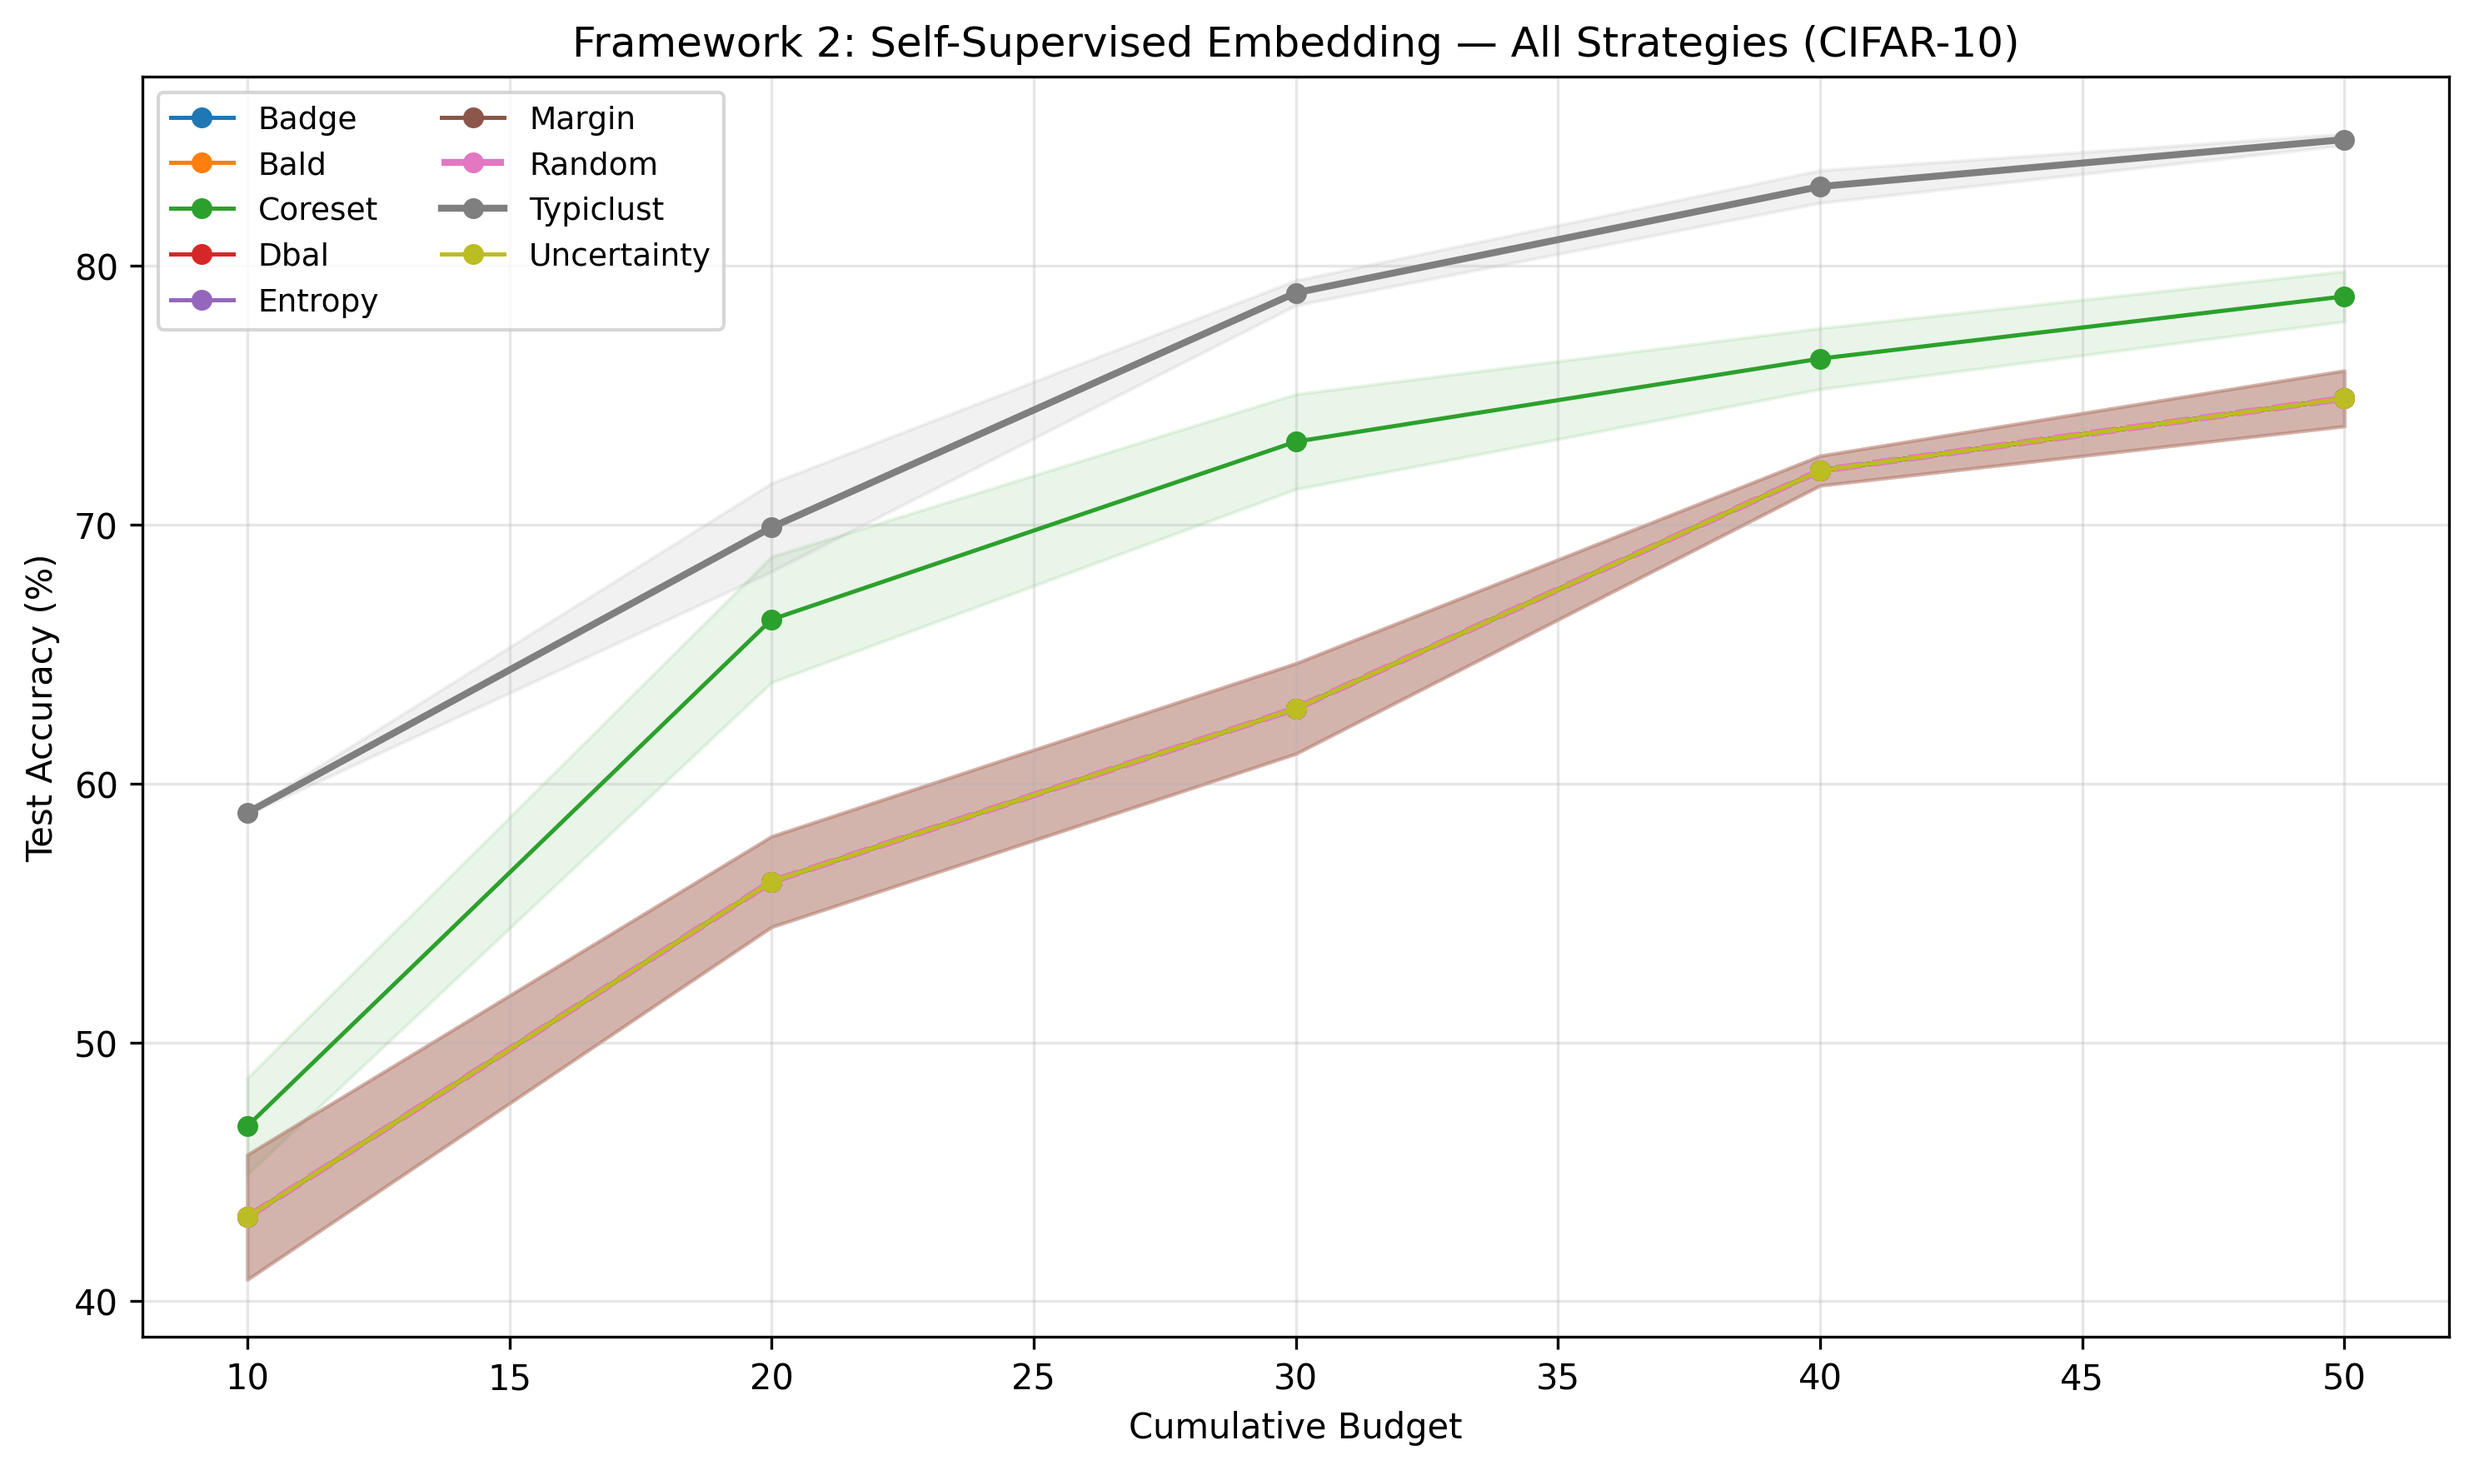
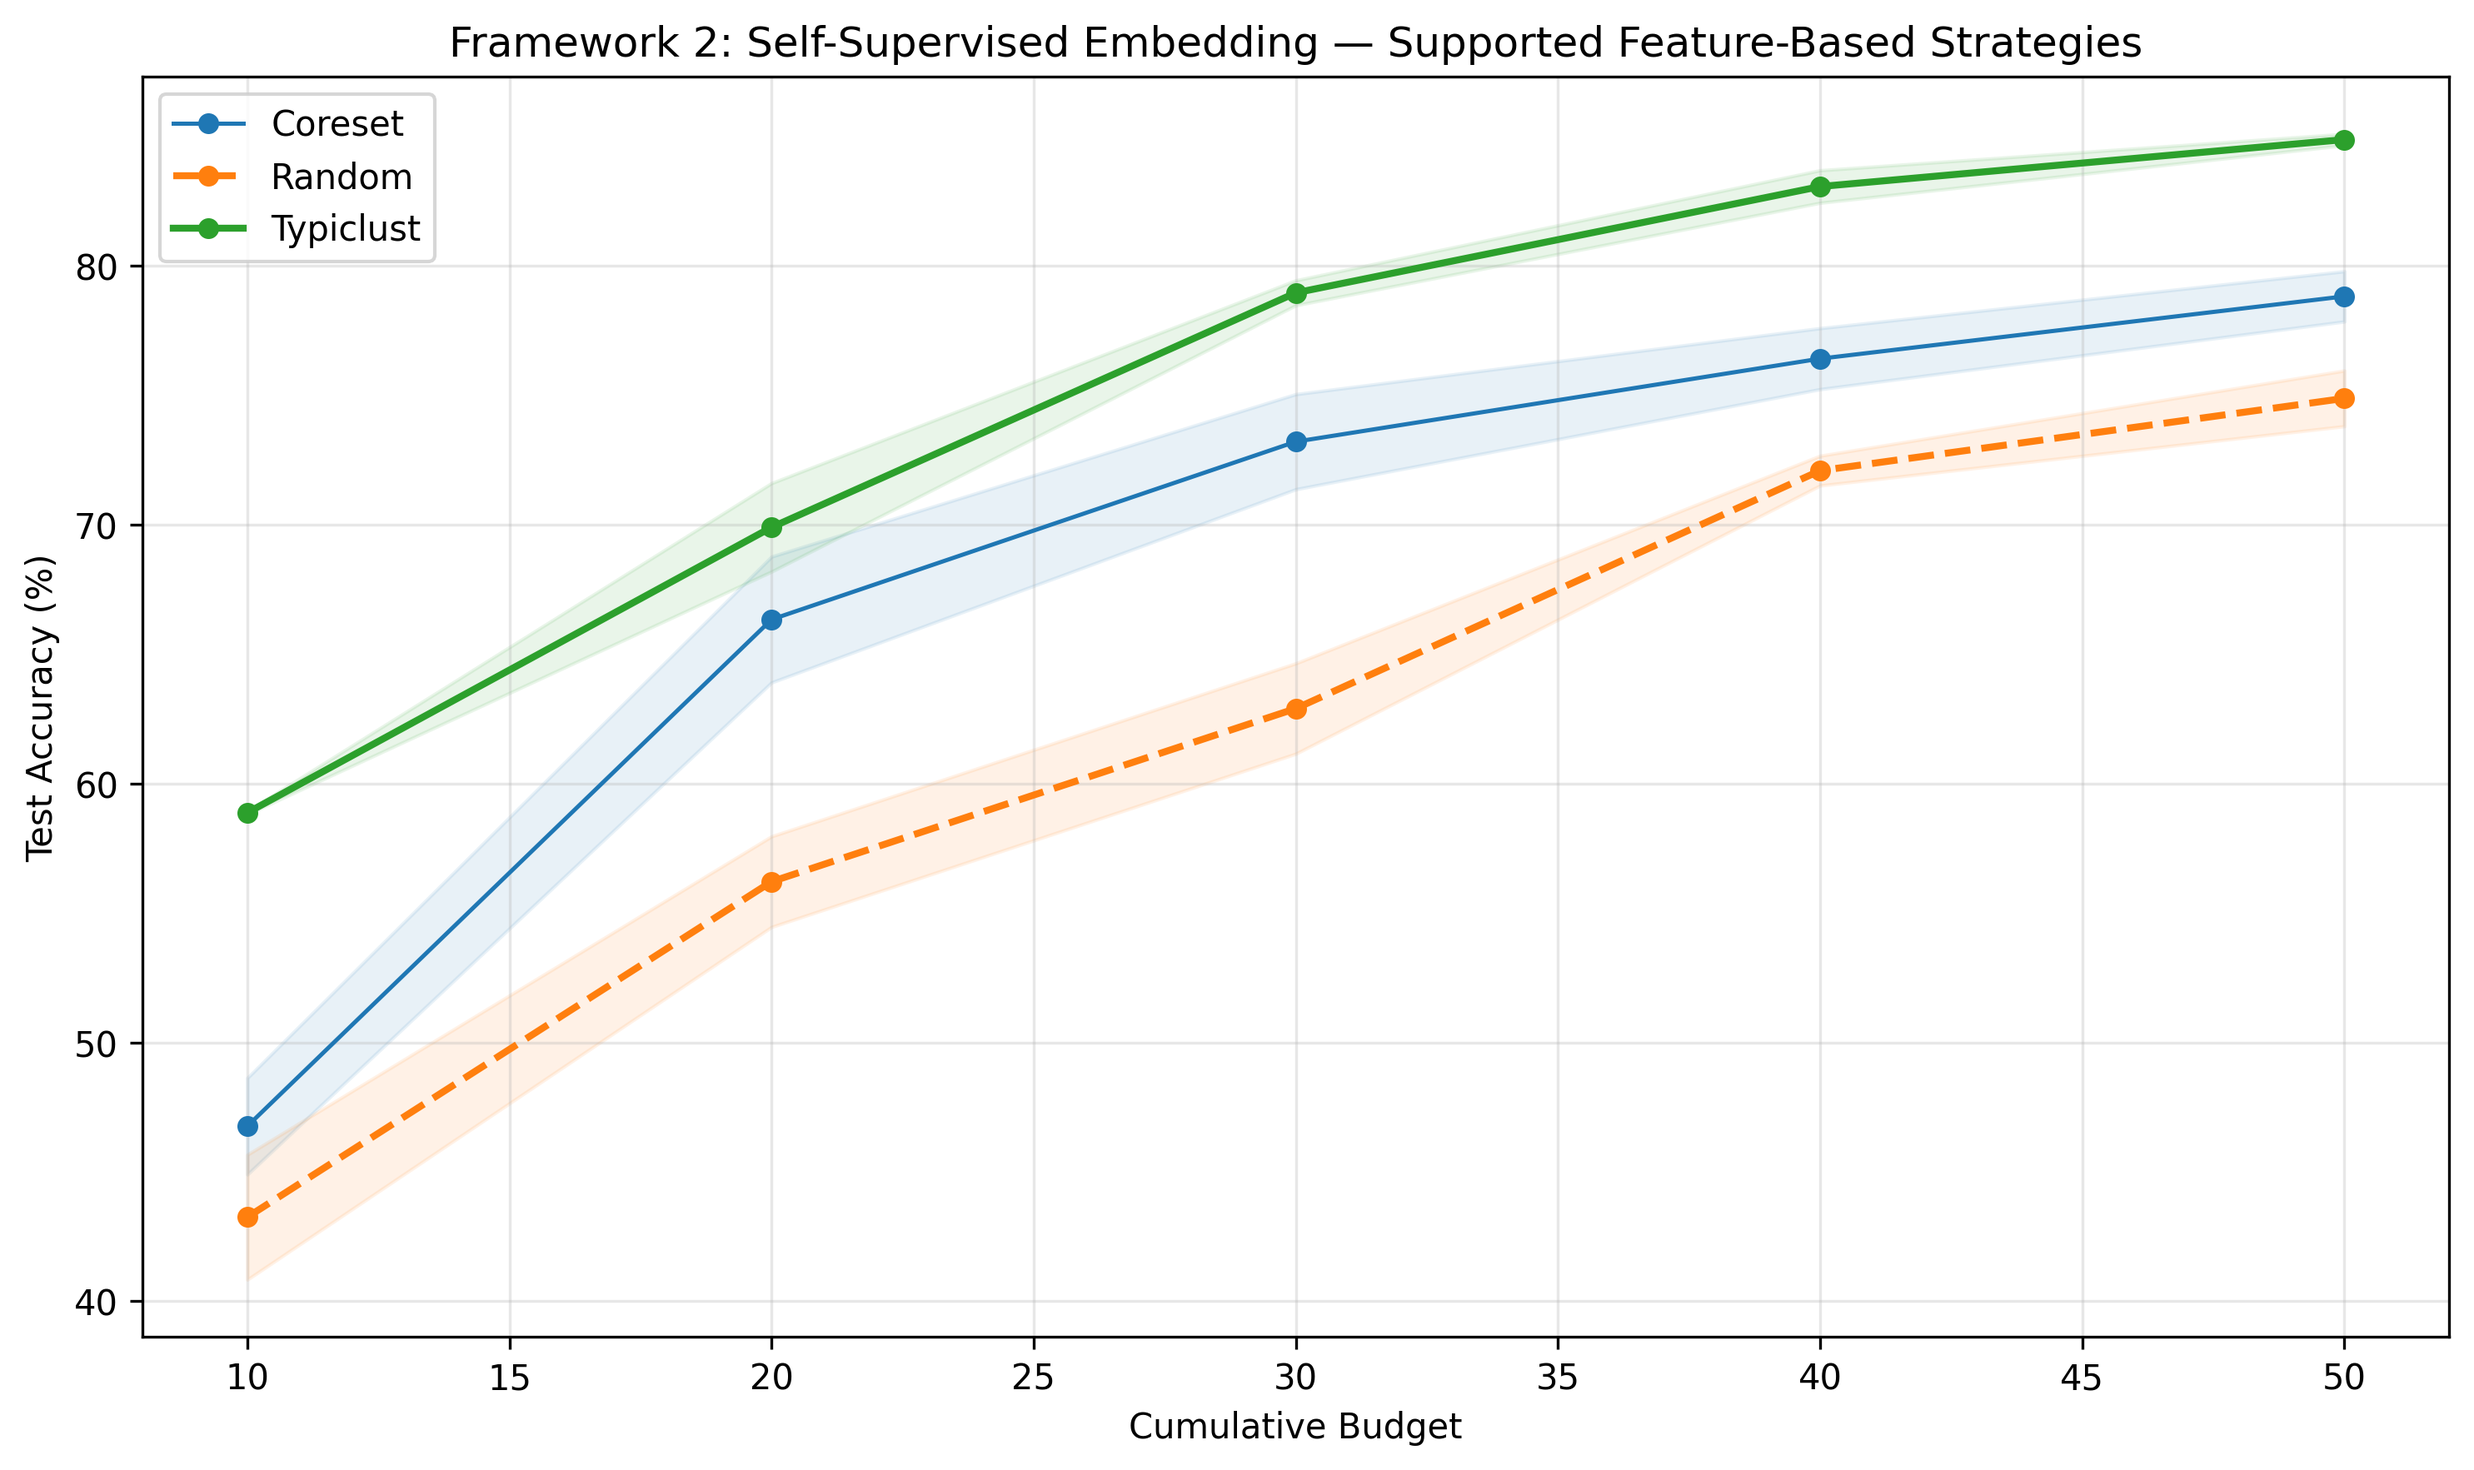
Updated figures and figure generation

diff --git a/run_all_v2.py b/run_all_v2.py
@@ -264,13 +264,14 @@ def main():
     plt.savefig(str(FIGURES_DIR / "fig_fw1_all_strategies.png"), dpi=300, bbox_inches="tight")
     plt.close()
 
-    # ── Plot: Framework 2 — All strategies ──
+    # ── Plot: Framework 2 — supported feature-based strategies only ──
     fig, ax = plt.subplots(figsize=(10, 6))
     strategies_fw2 = {}
     for key, r in all_results.items():
         if key.startswith("fw2_"):
             name = key.replace("fw2_", "").replace("_b10", "")
-            strategies_fw2[name] = r
+            if name in ("typiclust", "random", "coreset"):
+                strategies_fw2[name] = r
 
     for i, (name, r) in enumerate(sorted(strategies_fw2.items())):
         b = r["cumulative_budget"]
@@ -285,8 +286,8 @@ def main():
 
     ax.set_xlabel("Cumulative Budget")
     ax.set_ylabel("Test Accuracy (%)")
-    ax.set_title("Framework 2: Self-Supervised Embedding — All Strategies (CIFAR-10)")
-    ax.legend(ncol=2, fontsize=9)
+    ax.set_title("Framework 2: Self-Supervised Embedding — Supported Feature-Based Strategies")
+    ax.legend(fontsize=10)
     ax.grid(True, alpha=0.3)
     plt.tight_layout()
     plt.savefig(str(FIGURES_DIR / "fig_fw2_all_strategies.png"), dpi=300, bbox_inches="tight")
@@ -299,6 +300,8 @@ def main():
 
     for key in sorted(all_results.keys()):
         r = all_results[key]
+        if "se_accuracy" not in r or "cumulative_budget" not in r:
+            continue
         m = r["mean_accuracy"]
         s = r["se_accuracy"]
         b = r["cumulative_budget"]
